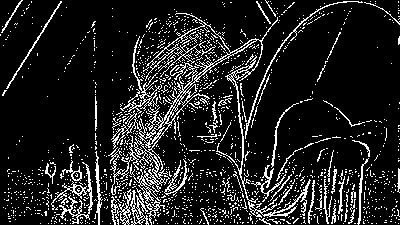
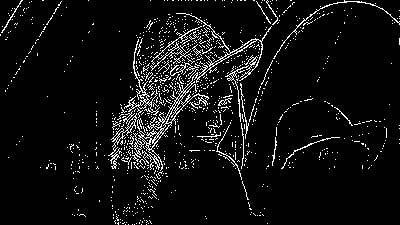
Corrections in filter

diff --git a/edges.cpp b/edges.cpp
@@ -122,9 +122,9 @@ int main(int argc,char **argv)
 		 }
 		} else
 		{//(((i-1) >=0) ?  : 0)
-			temp+=Image::conv[0]*(((i-1-w) >=0) ? imagePart[i-1-w] : 0);
+			temp+=Image::conv[0]*(((i-1) >=0) ? imagePart[i-1] : 0);
 			temp+=Image::conv[1]*imagePart[i];
-			temp+=Image::conv[2]*(((i-1-w)%w == 0) ? 0 : imagePart[i+1-w]);
+			temp+=Image::conv[2]*(((i-1)%w == 0) ? 0 : imagePart[i+1]);
 		}
 		////end of first line of coefficients matrix
 		
@@ -133,13 +133,13 @@ int main(int argc,char **argv)
 		{
 			temp+=Image::conv[3]*((i%w == 0) ? 0 : imagePart[i-1]);
 			temp+=Image::conv[4]*imagePart[i];
-			temp+=Image::conv[5]*(((i-1)%w == 0) ? 0 : imagePart[i+2]);
+			temp+=Image::conv[5]*(((i-1)%w == 0) ? 0 : imagePart[i+1]);
 		}
 		else
 		{
 			temp+=Image::conv[3]*((i%w == 0) ? 0 : imagePart[i+w-1]);
 			temp+=Image::conv[4]*imagePart[i+w];
-			temp+=Image::conv[5]*(((i-1)%w == 0) ? 0 : imagePart[i+w+2]);
+			temp+=Image::conv[5]*(((i-1)%w == 0) ? 0 : imagePart[i+w+1]);
 		}
 		
 		////end of calculations based on first line of coefficients matrix
@@ -153,11 +153,11 @@ int main(int argc,char **argv)
 			temp+=Image::conv[8]*(((i-1)%w == 0) ? 0 : imagePart[i+w+1]);
 		}else
 		{
-			if(!(true == processDatainfo.last && i>= (partImageSize-w))) //all lines without last line in last fragment
+			//if(!(true == processDatainfo.last && i>= (partImageSize-w))) //all lines without last line in last fragment
 			{
-				temp+=Image::conv[6]*((i%w == 0) ? 0 : imagePart[i+w-1]);
+				temp+=Image::conv[6]*((i%w == 0) ? 0 : imagePart[i+2*w-1]);
 				temp+=Image::conv[7]*imagePart[i+2*w];
-				temp+=Image::conv[8]*(((i-1)%w == 0) ? 0 : imagePart[i+w+1]);
+				temp+=Image::conv[8]*(((i-1)%w == 0) ? 0 : imagePart[i+2*w+1]);
 			}
 			
 		}
